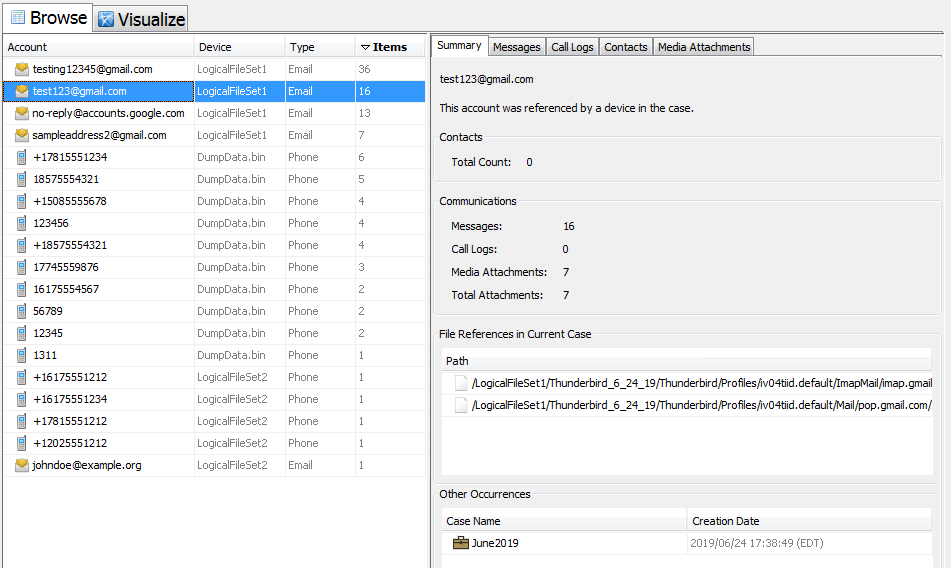
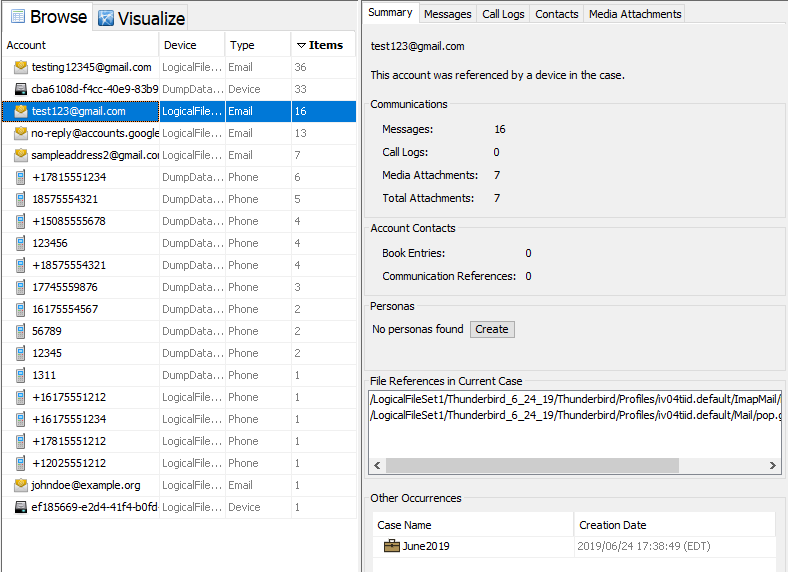
Updated CVT summary to include personas. Added note that SHA-256 hash is now calculated. Added that ileapp now supports disk images. Updated copyright dates.

diff --git a/docs/doxygen/footer.html b/docs/doxygen/footer.html
@@ -1,5 +1,5 @@
 <hr/>
-<p><i>Copyright &#169; 2012-2020 Basis Technology. Generated on: $date<br/> 
+<p><i>Copyright &#169; 2012-2021 Basis Technology. Generated on: $date<br/> 
 This work is licensed under a
 <a rel="license" href="http://creativecommons.org/licenses/by-sa/3.0/us/">Creative Commons Attribution-Share Alike 3.0 United States License</a>.
 </i></p>

diff --git a/docs/doxygen-dev/footer.html b/docs/doxygen-dev/footer.html
@@ -1,5 +1,5 @@
 <hr/>
-<p><i>Copyright &#169; 2012-2020 Basis Technology. Generated on $date<br/> 
+<p><i>Copyright &#169; 2012-2021 Basis Technology. Generated on $date<br/> 
 This work is licensed under a
 <a rel="license" href="http://creativecommons.org/licenses/by-sa/3.0/us/">Creative Commons Attribution-Share Alike 3.0 United States License</a>.
 </i></p>

diff --git a/docs/doxygen-user/footer.html b/docs/doxygen-user/footer.html
@@ -1,5 +1,5 @@
 <hr/>
-<p><i>Copyright &#169; 2012-2020 Basis Technology. Generated on $date<br/> 
+<p><i>Copyright &#169; 2012-2021 Basis Technology. Generated on $date<br/> 
 This work is licensed under a
 <a rel="license" href="http://creativecommons.org/licenses/by-sa/3.0/us/">Creative Commons Attribution-Share Alike 3.0 United States License</a>.
 </i></p>
